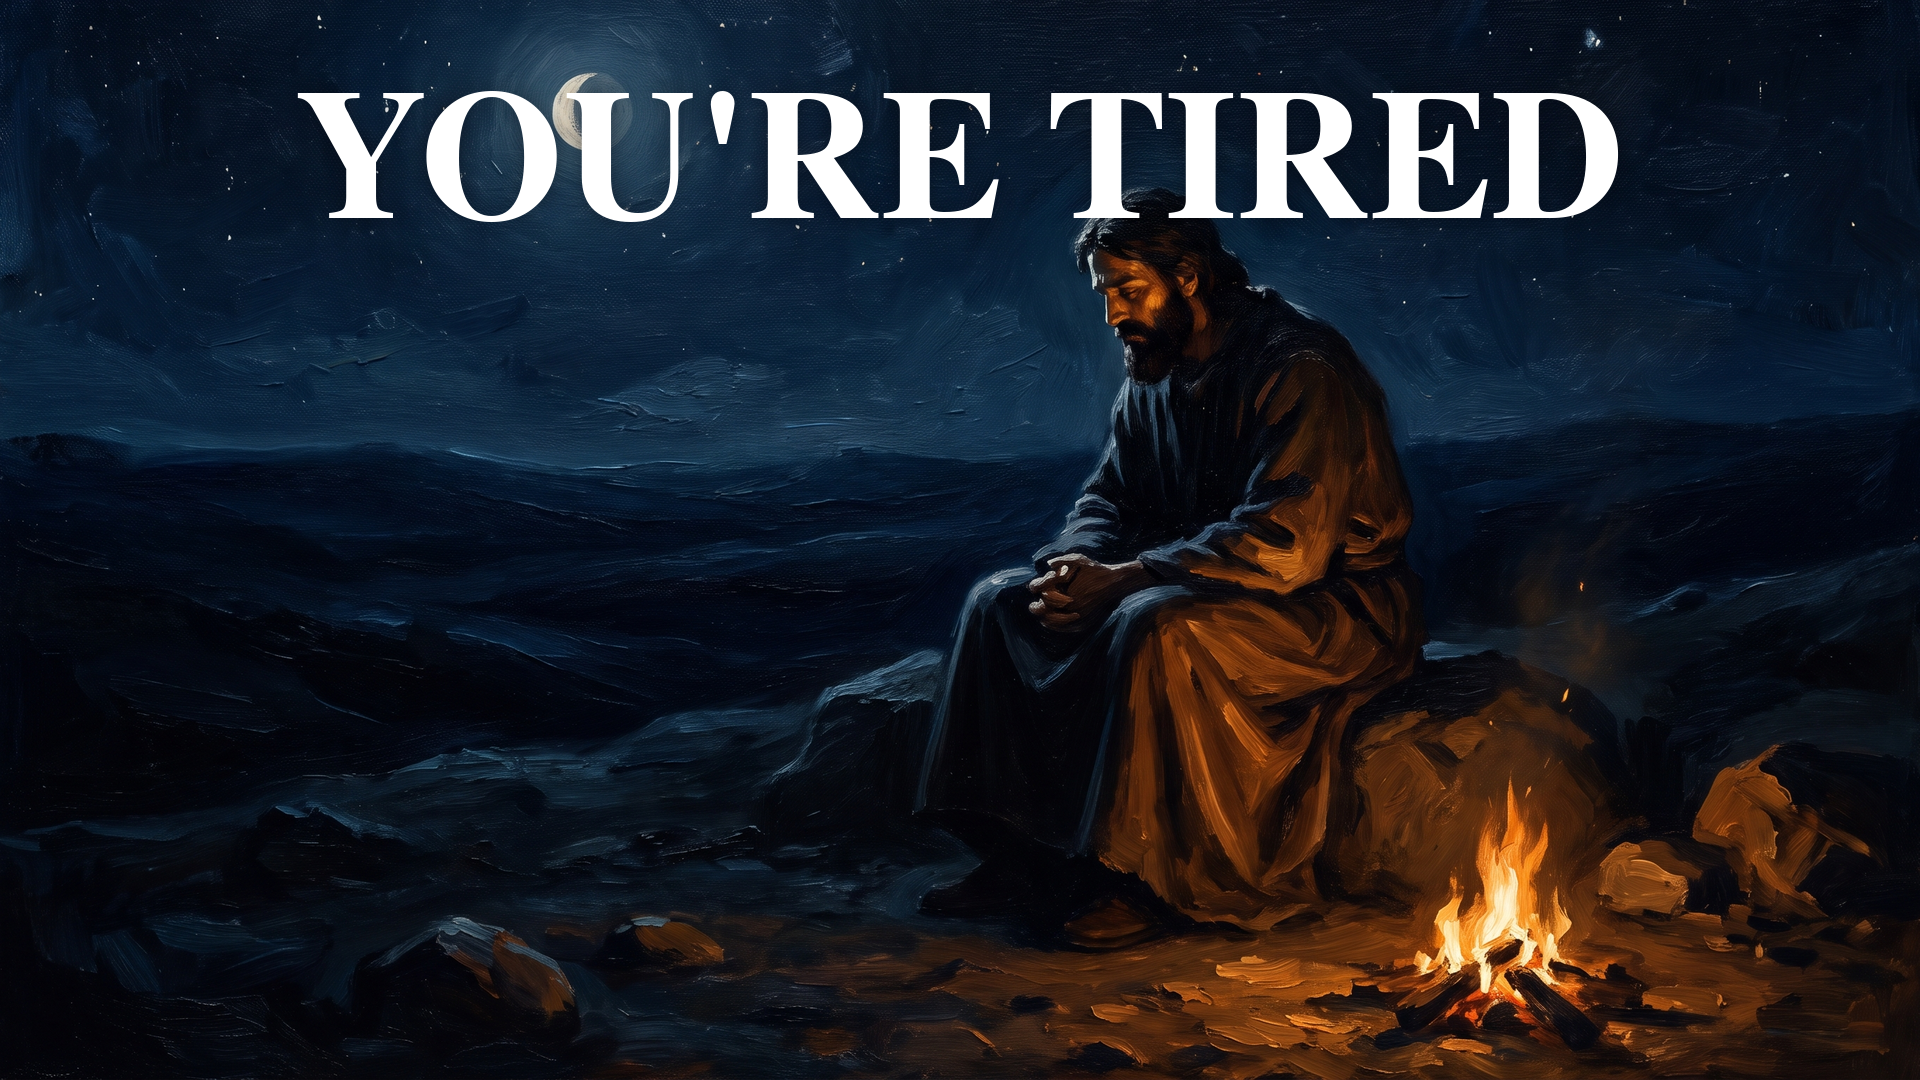
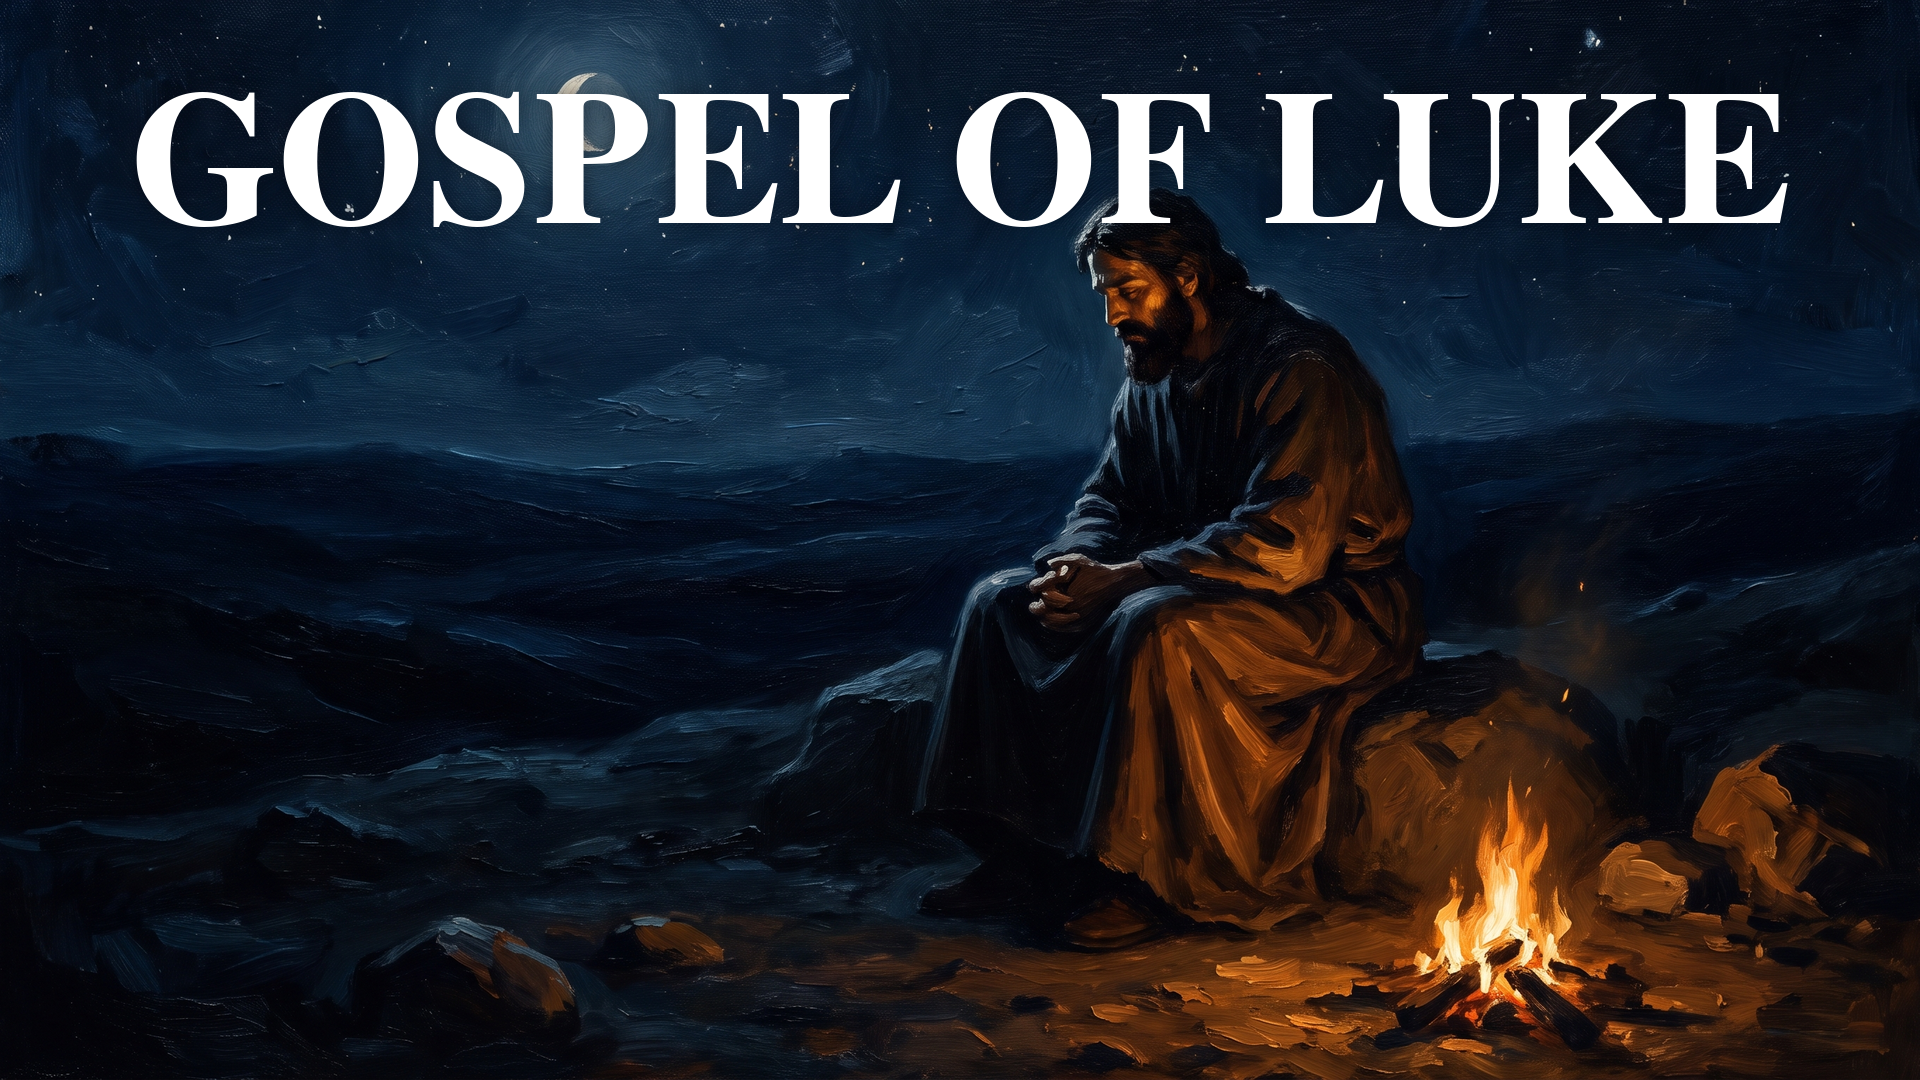
Versalhoehe: Zielwert von der Pruefgrenze getrennt, Thumbnail auf GOSPEL OF LUKE
THUMBNAIL-TEXT zurueck auf GOSPEL OF LUKE. Das Plandokument stand
ohnehin darauf - nur mein Thumbnail-Bau war falsch, das Dokument nie.
Begruendung des Kanalinhabers: V3 ist der einzige Treffer und trug den
Eigennamen in Titel UND Thumbnail; wenn der Wirkungsweg das
Vorschlagsband ist (102 von 151 Aufrufen, null Suchverkehr), sieht der
Zuschauer beides gemeinsam. 3 Woerter, Grenze ist 4.

VERSALHOEHE - der Verdacht war richtig, die Ursache eine andere.
Nachgeprueft ueber die ganze Historie:

  CAP_ZIEL_PCT      kommt in keinem Commit vor (git log -S)
  thumbnail.py      hat genau EINE Version, seit 7be6f6e
  "129"             taucht in keiner je eingecheckten Messdatei auf
  alle 8 Messdateien  125 px = 11,57 %, auch V04

Die Aenderung ist also nicht verlorengegangen - sie war nie in diesem
Repo. Die Zahl 129 war richtig gedacht und nie implementiert.

Jetzt implementiert, und der Grund traegt weiter als die Kosmetik:
gesetzt wurde bisher direkt AUF der Pruefgrenze, ceil(1080 x 11,5 %) =
125 px = 11,57 %. Das sind 0,8 Pixel Reserve. Eine Pruefung, die ihr
eigenes Ergebnis gerade so besteht, prueft nichts - jede spaetere
Aenderung an Schrift, Aufloesung oder Rundung haette sie gekippt, ohne
dass jemand etwas falsch gemacht haette.

  CAP_MIN_PCT  = 11.5   Pruefgrenze, aus der Checkliste
  CAP_ZIEL_PCT = 11.9   Zielwert, Median der B-Serie (n=13)
  -> ceil(1080 x 11,9 %) = 129 px = 11,94 %, 4,8 Pixel Reserve
[…]

Changed region(s): [[0.0625, 0.0611, 0.9375, 0.2139]]

diff --git a/produktion/pipeline/thumbnail.py b/produktion/pipeline/thumbnail.py
@@ -32,7 +32,24 @@ SCHRIFTEN = [
     "/usr/share/fonts/truetype/liberation/LiberationSerif-Bold.ttf",
     "/usr/share/fonts/truetype/dejavu/DejaVuSerif-Bold.ttf",
 ]
+# ZWEI Groessen, die nicht dieselbe sind:
+#
+#   CAP_MIN_PCT   die PRUEFGRENZE aus formel/thumbnail-checkliste.md. Belegt an
+#                 der B-Serie (Spanne 9,9-12,1 %); darunter faellt ein Thumbnail
+#                 durch. Aendert sich nur, wenn die Checkliste sich aendert.
+#   CAP_ZIEL_PCT  die Groesse, in der wir tatsaechlich SETZEN. Der Median der
+#                 B-Serie liegt bei 11,9 % (n=13) - das ist das Vorbild, nicht
+#                 die Untergrenze.
+#
+# Bis 2026-08-25 gab es nur die Grenze, und gesetzt wurde direkt auf ihr:
+# ceil(1080 x 11,5 %) = 125 px = 11,57 %. Das sind 0,8 Pixel Reserve. Jede
+# spaetere Aenderung an Schrift, Aufloesung oder Rundung haette die Pruefung
+# gekippt, ohne dass jemand etwas falsch gemacht haette. Getrennt sind es
+# ceil(1080 x 11,9 %) = 129 px = 11,94 % und damit 4,8 Pixel Reserve.
+#
+# Gilt ab V05. V01-V04 sind mit 125 px veroeffentlicht und bleiben, wie sie sind.
 CAP_MIN_PCT = 11.5
+CAP_ZIEL_PCT = 11.9
 KONTRAST_MIN = 10.0
 MAX_WOERTER = 4
 
@@ -74,7 +91,7 @@ def bauen(bild, text, aus, oben_pct=8.5, rand_min=40):
         raise SystemExit(f"{woerter} Woerter — die Checkliste erlaubt hoechstens "
                          f"{MAX_WOERTER}.")
 
-    cap_ziel = int(np.ceil(H * CAP_MIN_PCT / 100))
+    cap_ziel = int(np.ceil(H * CAP_ZIEL_PCT / 100))
     d = ImageDraw.Draw(im)
     gewaehlt = None
     for p in SCHRIFTEN:

diff --git a/bibeltube-wissen.md b/bibeltube-wissen.md
@@ -1151,7 +1151,7 @@ Erfolg und dem geringsten Streuungsrisiko:
 
 | Größe | Zielwert | Belegte Spanne | Fallzahl |
 |---|---|---|---|
-| **Versalhöhe** | **≥ 11,5 % der Bildhöhe** (≈ 83 px bei 720p, ≈125 px bei 1080p) | 9,9–12,1 %, Median 11,9 % | 13 |
+| **Versalhöhe** | **≥ 11,5 % der Bildhöhe** (≈ 83 px bei 720p, ≈125 px bei 1080p) — **gesetzt wird auf 11,9 %**, siehe unten | 9,9–12,1 %, Median 11,9 % | 13 |
 | **Kontrast Text/Hintergrund** | **≥ 10:1** | 10,1–17,5:1, Median 15,4:1 | 13 |
 | **Wortzahl** | **maximal 4 Wörter** | Gewinner 0–4 | 21 |
 
@@ -1162,6 +1162,27 @@ und Verlierer sauber trennt.
 Der Kontrastwert 10:1 ist bewusst hoch angesetzt: WCAG verlangt 4,5:1, die Gewinner-Serie
 liefert aber durchgehend das Doppelte bis Dreifache. Du hast keinen Grund, unter ihren
 schlechtesten Wert (10,1) zu gehen.
+
+> ### Grenze und Zielwert sind nicht dasselbe (2026-08-25)
+>
+> Die **11,5 %** oben sind die **Prüfgrenze** — darunter fällt ein Thumbnail durch.
+> Der **Median der B-Serie liegt bei 11,9 %** (n=13), und das ist das Vorbild.
+>
+> Bis heute hat `thumbnail.py` beides vermischt und direkt auf der Grenze gesetzt:
+> `ceil(1080 × 11,5 %)` = **125 px = 11,57 %**. Das sind **0,8 Pixel** Reserve. Jede
+> spätere Änderung an Schrift, Auflösung oder Rundung hätte die eigene Prüfung
+> gekippt, ohne dass jemand etwas falsch gemacht hätte — eine Prüfung, die ihr
+> eigenes Ergebnis gerade so besteht, prüft nichts.
+>
+> Seit 2026-08-25 sind es zwei Konstanten: `CAP_MIN_PCT = 11.5` (Grenze, aus dieser
+> Checkliste) und `CAP_ZIEL_PCT = 11.9` (Zielwert, B-Median). Gesetzt wird damit auf
+> `ceil(1080 × 11,9 %)` = **129 px = 11,94 %**, also **4,8 Pixel** Reserve.
+>
+> **Gilt ab V05.** V01–V04 sind mit 125 px veröffentlicht und bleiben so. Geprüft,
+> dass die Mehrhöhe keine geplante Zeile über die 1840-px-Breitengrenze schiebt:
+> V05 1659 px · V06 1616 · V07 1677 · V08 1807 — alle passen. V01s Zeile
+> (`SO TIRED TONIGHT`) läge bei 1845 px und würde reißen; sie ist aber gebaut und
+> bleibt bei 125 px.
 
 ---
 

diff --git a/formel/thumbnail-checkliste.md b/formel/thumbnail-checkliste.md
@@ -41,7 +41,7 @@ Erfolg und dem geringsten Streuungsrisiko:
 
 | Größe | Zielwert | Belegte Spanne | Fallzahl |
 |---|---|---|---|
-| **Versalhöhe** | **≥ 11,5 % der Bildhöhe** (≈ 83 px bei 720p, ≈125 px bei 1080p) | 9,9–12,1 %, Median 11,9 % | 13 |
+| **Versalhöhe** | **≥ 11,5 % der Bildhöhe** (≈ 83 px bei 720p, ≈125 px bei 1080p) — **gesetzt wird auf 11,9 %**, siehe unten | 9,9–12,1 %, Median 11,9 % | 13 |
 | **Kontrast Text/Hintergrund** | **≥ 10:1** | 10,1–17,5:1, Median 15,4:1 | 13 |
 | **Wortzahl** | **maximal 4 Wörter** | Gewinner 0–4 | 21 |
 
@@ -52,6 +52,27 @@ und Verlierer sauber trennt.
 Der Kontrastwert 10:1 ist bewusst hoch angesetzt: WCAG verlangt 4,5:1, die Gewinner-Serie
 liefert aber durchgehend das Doppelte bis Dreifache. Du hast keinen Grund, unter ihren
 schlechtesten Wert (10,1) zu gehen.
+
+> ### Grenze und Zielwert sind nicht dasselbe (2026-08-25)
+>
+> Die **11,5 %** oben sind die **Prüfgrenze** — darunter fällt ein Thumbnail durch.
+> Der **Median der B-Serie liegt bei 11,9 %** (n=13), und das ist das Vorbild.
+>
+> Bis heute hat `thumbnail.py` beides vermischt und direkt auf der Grenze gesetzt:
+> `ceil(1080 × 11,5 %)` = **125 px = 11,57 %**. Das sind **0,8 Pixel** Reserve. Jede
+> spätere Änderung an Schrift, Auflösung oder Rundung hätte die eigene Prüfung
+> gekippt, ohne dass jemand etwas falsch gemacht hätte — eine Prüfung, die ihr
+> eigenes Ergebnis gerade so besteht, prüft nichts.
+>
+> Seit 2026-08-25 sind es zwei Konstanten: `CAP_MIN_PCT = 11.5` (Grenze, aus dieser
+> Checkliste) und `CAP_ZIEL_PCT = 11.9` (Zielwert, B-Median). Gesetzt wird damit auf
+> `ceil(1080 × 11,9 %)` = **129 px = 11,94 %**, also **4,8 Pixel** Reserve.
+>
+> **Gilt ab V05.** V01–V04 sind mit 125 px veröffentlicht und bleiben so. Geprüft,
+> dass die Mehrhöhe keine geplante Zeile über die 1840-px-Breitengrenze schiebt:
+> V05 1659 px · V06 1616 · V07 1677 · V08 1807 — alle passen. V01s Zeile
+> (`SO TIRED TONIGHT`) läge bei 1845 px und würde reißen; sie ist aber gebaut und
+> bleibt bei 125 px.
 
 ---
 

diff --git a/produktion/motive/README.md b/produktion/motive/README.md
@@ -124,12 +124,17 @@ in FreeSerif Bold @ 184 px, der schmalsten der drei installierten Serifen.
 | V02 | `QUIET YOUR MIND` | 15 | 1726 px | 97 px | |
 | V03 | `GOSPEL OF JOHN` | 14 | 1609 px | 155 px | |
 | V04 | `THINK NO MORE` | 13 | 1548 px | 186 px | gekürzt |
-| V05 | ~~`YOU'RE TIRED`~~ → **`GOSPEL OF LUKE`** | 14 | **1607 px** | 156 px | geändert 2026-08-23 |
-| V06 | ~~`ISAIAH TONIGHT`~~ | 14 | 1565 px | 177 px | **hinfällig, Korpus wird neu geschnitten** |
-| V07 | ~~`NO MORE STRESS`~~ | 14 | 1624 px | 148 px | **hinfällig, Korpus wird neu geschnitten** |
-| V08 | `IN THE BEGINNING` | 16 | 1750 px | 85 px | knapp |
+| V05 | **`GOSPEL OF LUKE`** | 14 | **1659 px** | 130 px | gebaut 2026-08-25, 129 px |
+| V06 | ~~`ISAIAH TONIGHT`~~ | 14 | 1616 px | 152 px | **hinfällig, Korpus wird neu geschnitten** |
+| V07 | ~~`NO MORE STRESS`~~ | 14 | 1677 px | 121 px | **hinfällig, Korpus wird neu geschnitten** |
+| V08 | `IN THE BEGINNING` | 16 | 1807 px | 56 px | knapp |
 
 **Alle liegen unter 1840 px — kein Textfall ist offen.**
+
+> **Die Werte für V05–V08 sind seit 2026-08-25 bei 129 px Versalhöhe gerechnet**
+> (vorher 125). Grund: `thumbnail.py` trennt jetzt Prüfgrenze (11,5 %) und Zielwert
+> (11,9 %, B-Median) — siehe `formel/thumbnail-checkliste.md`. V01–V04 in der Tabelle
+> darüber stehen weiter bei 125 px, sie sind so veröffentlicht.
 
 > **Nachtrag 2026-08-23** *(eigene Kanaldaten Gate 2)*. Drei Zeilen sind
 > überholt:
